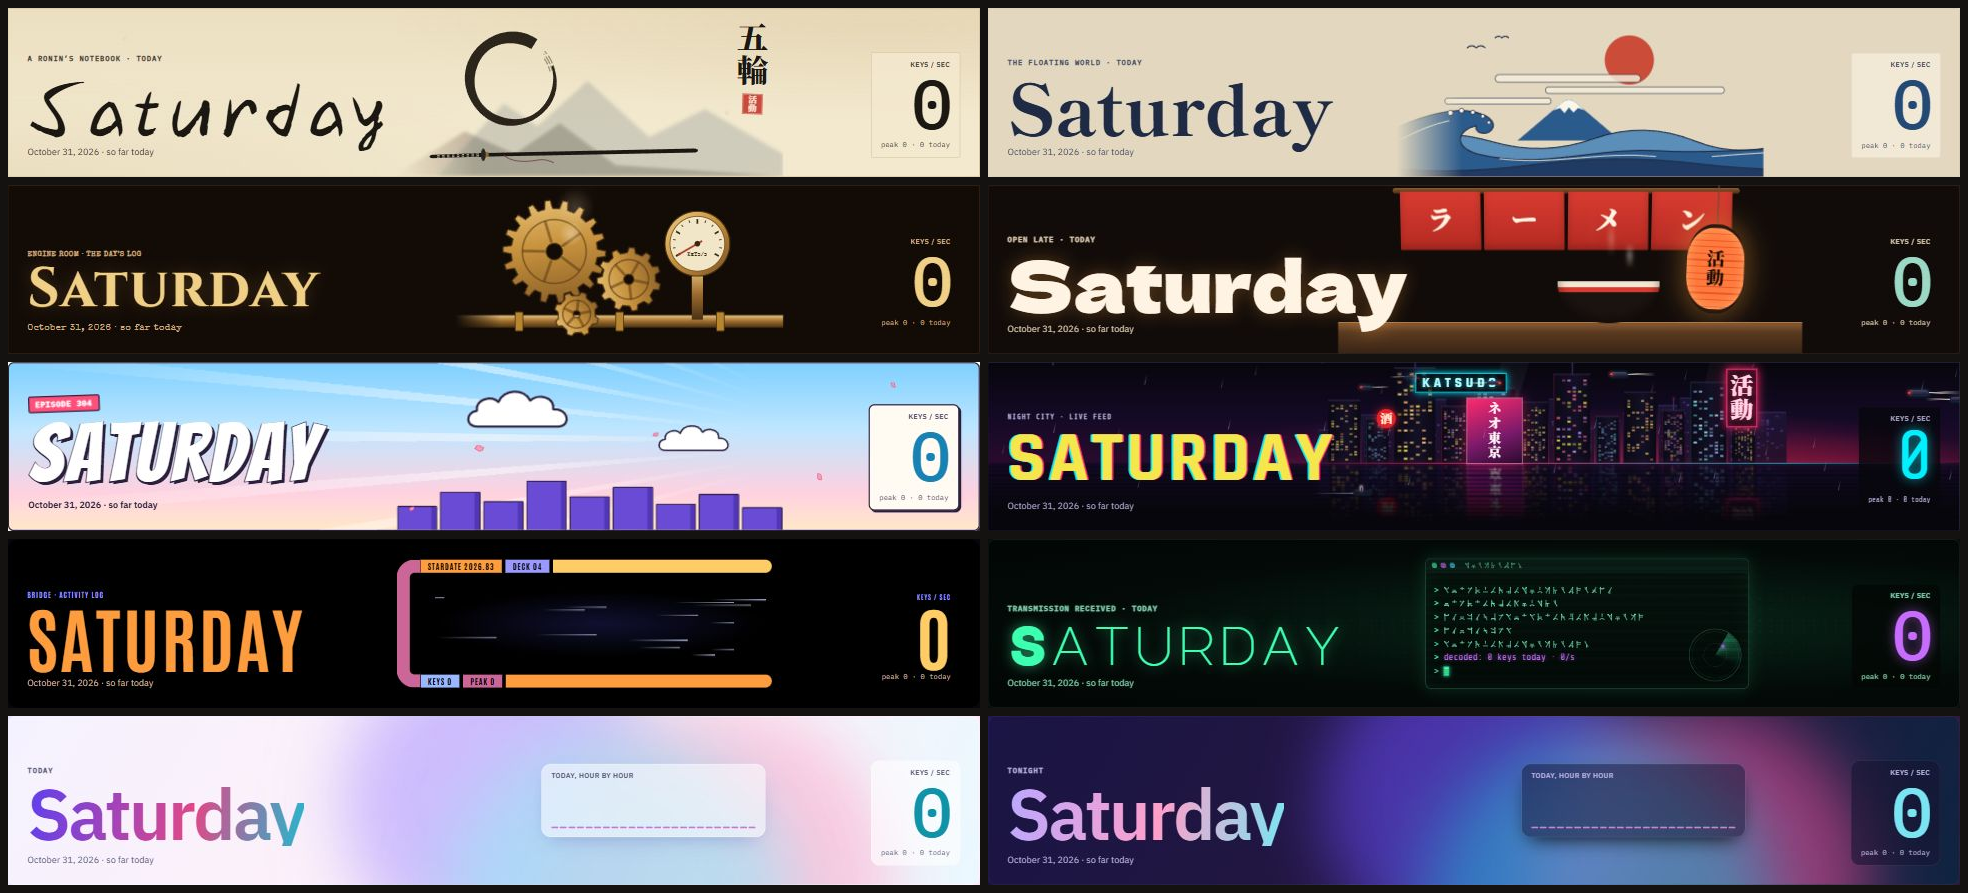
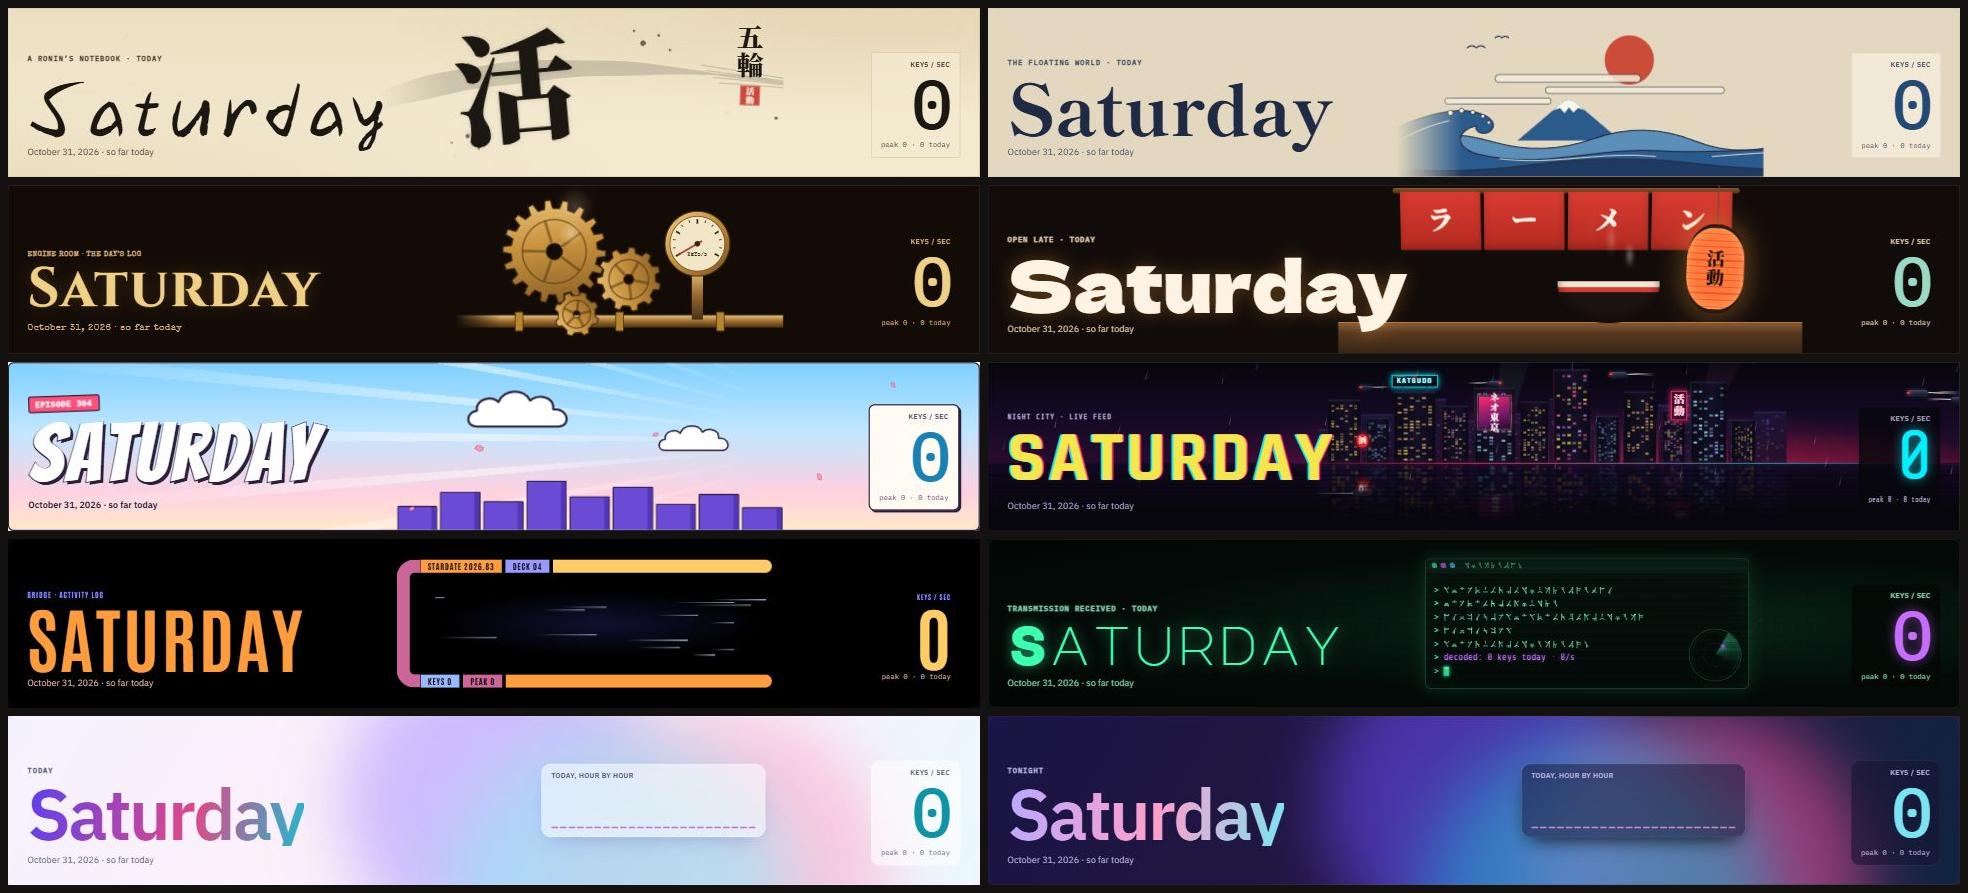
Cyberpunk signs on their buildings; Ronin as calligraphy, with a cut
- Cyberpunk: KATSUDO is a rooftop sign on struts, ネオ東京 a billboard framed
  in a facade, 活動 a blade sign bracketed to a tower's side, 酒 a lantern;
  each sized to its building, and all of them reflected in the bay.
- Ronin: the Today art is a calligraphy piece (a sumi brush sweep, a large
  brushed 活 with splatter, the 五輪 column and seal). The sword is gone:
  sweep the pointer quickly through the day's name and it is cut along that
  line, a blade flash and the halves sliding apart before they settle. It
  cuts itself once when Today opens; nothing moves with animations off.

diff --git a/src/themes/RoninArt.tsx b/src/themes/RoninArt.tsx
@@ -1,6 +1,8 @@
-// 1645 Ronin: the Musashi era as an old notebook. Sumi ink on tea-stained paper: a brushed
-// ensō that thins as the brush runs dry, ink-wash mountains, a sheathed sword lying below, and
-// a column of brush kanji signed with a red seal. Styles in ronin.css.
+// 1645 Ronin: the Musashi era as an old notebook, laid out as a calligraphy piece. A sumi brush
+// sweep in grey wash, a large brushed 活 with ink splatter, and a 五輪 column signed with a red
+// seal. The day's name can be cut: sweep the pointer through it and it splits along the line of
+// the cut, then settles back (it cuts itself once when Today opens). Styles in ronin.css.
+import { useCallback, useEffect, useRef, useState, type PointerEvent } from 'react';
 import { Hanko, NAME } from '../kanji';
 
 /**
@@ -9,7 +11,7 @@ import { Hanko, NAME } from '../kanji';
  */
 function ensoShape() {
   const N = 90;
-  const start = (-58 * Math.PI) / 180; // upper right, then counter-clockwise round
+  const start = (-58 * Math.PI) / 180;
   const sweep = (322 * Math.PI) / 180;
   const outer: string[] = [];
   const inner: string[] = [];
@@ -25,14 +27,6 @@ function ensoShape() {
 }
 const ENSO = ensoShape();
 
-/** Where the brush ran dry: a few broken hairlines past the end of the stroke. */
-const DRY = [0, 1, 2].map((k) => {
-  const r = 66 + k * 4;
-  const a0 = (-58 - 322 + 6) * (Math.PI / 180);
-  const a1 = (-58 - 322 - 14 - k * 6) * (Math.PI / 180);
-  return `M${(100 + r * Math.cos(a0)).toFixed(1)} ${(100 + r * Math.sin(a0)).toFixed(1)} A${r} ${r} 0 0 0 ${(100 + r * Math.cos(a1)).toFixed(1)} ${(100 + r * Math.sin(a1)).toFixed(1)}`;
-});
-
 export function Enso({ className }: { className?: string }) {
   return (
     <svg className={`rn-enso${className ? ` ${className}` : ''}`} viewBox="0 0 200 200" aria-hidden="true">
@@ -42,45 +36,136 @@ export function Enso({ className }: { className?: string }) {
           <feDisplacementMap in="SourceGraphic" in2="n" scale="1.6" xChannelSelector="R" yChannelSelector="G" />
         </filter>
       </defs>
-      <g filter="url(#rn-ink)">
-        <path className="rn-enso-ink" d={ENSO} />
-        {DRY.map((d, i) => <path key={i} className="rn-enso-dry" d={d} />)}
-      </g>
+      <path className="rn-enso-ink" d={ENSO} filter="url(#rn-ink)" />
     </svg>
   );
 }
 
-/** A sheathed katana lying flat: grip with its wrap, guard, lacquered scabbard, a loose cord. */
-function Sword() {
-  return (
-    <svg className="rn-sword" viewBox="0 0 640 60" aria-hidden="true">
-      <path className="rn-saya" d="M150 34 L612 24 Q 622 24 622 28.5 Q 622 33 612 33 L150 42 Z" />
-      <rect className="rn-habaki" x="146" y="32" width="8" height="11" rx="1" transform="rotate(-1.2 150 38)" />
-      <ellipse className="rn-tsuba" cx="142" cy="38" rx="4.5" ry="13" />
-      <path className="rn-tsuka" d="M138 34 L30 38 Q 22 38.6 22 42 Q 22 45.4 30 45.6 L138 42 Z" />
-      <path className="rn-ito" d="M132 36 L36 40 M132 40 L36 43.6" />
-      <path className="rn-sageo" d="M188 38 C 200 52 230 56 262 50 C 280 47 292 52 300 56" />
-    </svg>
-  );
+/** A brush sweep along a curve: thin in, swelling, thinning out, with dry streaks at the tail. */
+function sweepShape() {
+  const P = [[30, 210], [380, 40], [960, 150]];
+  const pt = (t: number) => {
+    const u = 1 - t;
+    return [u * u * P[0][0] + 2 * u * t * P[1][0] + t * t * P[2][0], u * u * P[0][1] + 2 * u * t * P[1][1] + t * t * P[2][1]];
+  };
+  const N = 80;
+  const top: string[] = [];
+  const bot: string[] = [];
+  for (let i = 0; i <= N; i++) {
+    const t = i / N;
+    const [x, y] = pt(t);
+    const [x2, y2] = pt(Math.min(1, t + 0.01));
+    const len = Math.hypot(x2 - x, y2 - y) || 1;
+    const [nx, ny] = [-(y2 - y) / len, (x2 - x) / len];
+    const w = 4 + 46 * Math.sin(Math.PI * Math.min(1, t * 1.25)) ** 0.7 * (1 - t * 0.55) + 2 * Math.sin(t * 31);
+    top.push(`${(x + nx * w / 2).toFixed(1)} ${(y + ny * w / 2).toFixed(1)}`);
+    bot.push(`${(x - nx * w / 2).toFixed(1)} ${(y - ny * w / 2).toFixed(1)}`);
+  }
+  const streaks = [-14, -5, 6, 15].map((o, k) => {
+    const [a, b] = [pt(0.78 + k * 0.01), pt(0.99)];
+    return `M${a[0].toFixed(1)} ${(a[1] + o).toFixed(1)} Q ${((a[0] + b[0]) / 2).toFixed(1)} ${((a[1] + b[1]) / 2 + o * 0.6 - 4).toFixed(1)} ${(b[0] + 20).toFixed(1)} ${(b[1] + o * 0.4).toFixed(1)}`;
+  });
+  return { body: `M${top.join(' L')} L${bot.reverse().join(' L')} Z`, streaks };
 }
+const SWEEP = sweepShape();
+const SPLATTER = [[612, 62, 5], [640, 48, 2.4], [596, 40, 1.6], [660, 74, 1.8], [298, 228, 3.6], [270, 240, 1.5], [318, 250, 2], [850, 196, 2.6], [878, 210, 1.4]];
 
 export function RoninArt() {
   return (
     <div className="rn">
-      <svg className="rn-scene" viewBox="0 0 1000 300" preserveAspectRatio="xMaxYMax slice" aria-hidden="true">
-        <defs><filter id="rn-wash"><feGaussianBlur stdDeviation="3" /></filter></defs>
-        <g filter="url(#rn-wash)">
-          <path className="rn-mtn is-far" d="M380 300 L500 170 L560 210 L650 130 L760 230 L860 180 L1000 260 V300 Z" />
-          <path className="rn-mtn is-near" d="M300 300 L430 220 L520 260 L600 205 L700 280 L1000 300 Z" />
+      <svg className="rn-scene" viewBox="0 0 1000 300" preserveAspectRatio="xMidYMid slice" aria-hidden="true">
+        <defs>
+          <filter id="rn-bleed" x="-5%" y="-10%" width="110%" height="120%">
+            <feTurbulence type="fractalNoise" baseFrequency="0.7" numOctaves="2" seed="11" result="n" />
+            <feDisplacementMap in="SourceGraphic" in2="n" scale="3" xChannelSelector="R" yChannelSelector="G" />
+          </filter>
+        </defs>
+        <g filter="url(#rn-bleed)">
+          <path className="rn-sweep" d={SWEEP.body} />
+          {SWEEP.streaks.map((d, i) => <path key={i} className="rn-streak" d={d} />)}
+          {SPLATTER.map(([x, y, r], i) => <circle key={i} className="rn-drop" cx={x} cy={y} r={r} />)}
         </g>
       </svg>
-      <Enso className="rn-hero-enso" />
-      <Sword />
+      <div className="rn-big">{NAME[0]}</div>
       <div className="rn-signature">
         <div className="rn-column"><span>五</span><span>輪</span></div>
         <Hanko className="rn-seal" />
       </div>
     </div>
+  );
+}
+
+// ---- The cut -----------------------------------------------------------------------------
+
+interface Cut { id: number; x: number; y: number; angle: number }
+
+/** Clip one side of the line through (x, y) at `angle` (radians), in px, far past the box. */
+function half(c: Cut, side: 1 | -1) {
+  const [dx, dy] = [Math.cos(c.angle), Math.sin(c.angle)];
+  const [nx, ny] = [-dy * side, dx * side];
+  const F = 4000;
+  const p = (x: number, y: number) => `${x.toFixed(0)}px ${y.toFixed(0)}px`;
+  return `polygon(${p(c.x - dx * F, c.y - dy * F)}, ${p(c.x + dx * F, c.y + dy * F)}, ${p(c.x + dx * F + nx * F, c.y + dy * F + ny * F)}, ${p(c.x - dx * F + nx * F, c.y - dy * F + ny * F)})`;
+}
+
+const calm = () => document.documentElement.classList.contains('no-motion') || window.matchMedia('(prefers-reduced-motion: reduce)').matches;
+
+/** The day's name, cut by a quick sweep of the pointer through it. */
+export function SlashTitle({ text }: { text: string }) {
+  const ref = useRef<HTMLHeadingElement>(null);
+  const entry = useRef<{ x: number; y: number; t: number } | null>(null);
+  const [cut, setCut] = useState<Cut | null>(null);
+  const [apart, setApart] = useState(false);
+
+  const slash = useCallback((x1: number, y1: number, x2: number, y2: number) => {
+    if (calm()) return;
+    setCut({ id: Date.now(), x: (x1 + x2) / 2, y: (y1 + y2) / 2, angle: Math.atan2(y2 - y1, x2 - x1) });
+    setApart(true);
+  }, []);
+
+  useEffect(() => {
+    if (!cut) return;
+    const settle = window.setTimeout(() => setApart(false), 650);
+    const heal = window.setTimeout(() => setCut(null), 1300);
+    return () => { window.clearTimeout(settle); window.clearTimeout(heal); };
+  }, [cut]);
+
+  // Once when Today opens, a cut from lower left to upper right.
+  useEffect(() => {
+    const t = window.setTimeout(() => {
+      const el = ref.current;
+      if (el) slash(0, el.offsetHeight * 0.78, el.offsetWidth, el.offsetHeight * 0.3);
+    }, 900);
+    return () => window.clearTimeout(t);
+  }, [slash]);
+
+  const local = (e: PointerEvent) => {
+    const r = ref.current!.getBoundingClientRect();
+    const z = r.width / ref.current!.offsetWidth || 1; // the interface scale (CSS zoom)
+    return { x: (e.clientX - r.left) / z, y: (e.clientY - r.top) / z };
+  };
+  const onEnter = (e: PointerEvent) => { entry.current = { ...local(e), t: performance.now() }; };
+  const onLeave = (e: PointerEvent) => {
+    const from = entry.current;
+    entry.current = null;
+    const el = ref.current;
+    if (!from || !el || cut) return;
+    const to = local(e);
+    // A cut is fast and goes most of the way through.
+    if (performance.now() - from.t < 450 && Math.hypot(to.x - from.x, to.y - from.y) > el.offsetWidth * 0.45) slash(from.x, from.y, to.x, to.y);
+  };
+
+  const [dx, dy] = cut ? [Math.cos(cut.angle), Math.sin(cut.angle)] : [0, 0];
+  const shift = (side: 1 | -1) => (apart ? `translate(${(dx * 16 - dy * 6) * side}px, ${(dy * 16 + dx * 6) * side}px)` : 'none');
+  return (
+    <h1 className={`hero-title rn-slash${cut ? ' is-cut' : ''}`} ref={ref} onPointerEnter={onEnter} onPointerLeave={onLeave}>
+      <span className="rn-half" style={cut ? { clipPath: half(cut, 1), transform: shift(1) } : undefined}>{text}</span>
+      {cut && <span className="rn-half is-b" aria-hidden="true" style={{ clipPath: half(cut, -1), transform: shift(-1) }}>{text}</span>}
+      {cut && (
+        <i key={cut.id} className="rn-trail" aria-hidden="true"
+          style={{ left: cut.x, top: cut.y, transform: `translate(-50%, -50%) rotate(${cut.angle}rad)` }} />
+      )}
+    </h1>
   );
 }
 

diff --git a/src/themes/cyber.css b/src/themes/cyber.css
@@ -28,19 +28,27 @@
 .cy-spire { position: absolute; left: 50%; bottom: 100%; width: 2px; height: 22px; background: #3a2d66; }
 .cy-spire b { position: absolute; left: -2px; top: -3px; width: 6px; height: 6px; border-radius: 50%; background: #ff3b3b; box-shadow: 0 0 8px #ff3b3b; animation: cy-blink 1.6s steps(1) infinite; }
 @keyframes cy-blink { 50% { opacity: .1; } }
-.cy-board { position: absolute; left: -18%; right: -18%; top: 12%; display: flex; flex-direction: column; align-items: center; padding: 6px 0; z-index: 1;
-  background: linear-gradient(160deg, #ff2a6d, #7a1a6a 60%, #2a0a2e); border: 1px solid #ff9ec0; box-shadow: 0 0 22px #ff2a6d88;
-  font: 400 clamp(13px, 1.3vw, 22px)/1.1 var(--font-kanji); color: #fff3f7; font-synthesis: none; animation: cy-glitch 7s steps(1) infinite; }
-@keyframes cy-glitch { 0%, 100% { transform: none; filter: none; } 62% { transform: translateX(3px); filter: hue-rotate(90deg); } 63% { transform: translateX(-2px); } 64% { transform: none; filter: none; } }
-
-/* Neon signs. */
-.cy-sign { position: absolute; right: calc(var(--cy-right) + 3%); top: 6%; z-index: 2; display: flex; flex-direction: column; padding: 7px 5px; border: 2px solid #ff2a6d;
-  font: 400 clamp(22px, 2.2vw, 38px)/1.05 var(--font-kanji); color: #ffd6e4; font-synthesis: none; background: #07060ccc;
-  box-shadow: 0 0 16px #ff2a6d, inset 0 0 12px #ff2a6d88; text-shadow: 0 0 10px #ff2a6d; animation: cy-flicker 6s steps(1) infinite; }
-.cy-sign-h { position: absolute; left: 44%; top: 10%; z-index: 2; padding: 2px 10px; font: 700 clamp(14px, 1.4vw, 22px)/1.2 "Rajdhani", sans-serif; letter-spacing: .3em; color: #b8fbff;
-  border: 1.5px solid #00f0ff; box-shadow: 0 0 12px #00f0ff; text-shadow: 0 0 8px #00f0ff; background: #07060c99; animation: cy-flicker 9s steps(1) infinite -3s; }
-.cy-sign-s { position: absolute; left: 40%; top: 46%; z-index: 2; width: 1.6em; height: 1.6em; display: grid; place-items: center; border-radius: 50%;
-  font: 400 clamp(13px, 1.2vw, 20px)/1 var(--font-kanji); color: #fff0d0; background: #e8202a; box-shadow: 0 0 14px #e8202a; font-synthesis: none; }
+/* Signs fixed to their buildings, sized to them. */
+.cy-board { position: absolute; left: 10%; right: 10%; top: 9%; height: 42%; z-index: 1; display: flex; flex-direction: column; align-items: center; justify-content: center;
+  background: linear-gradient(160deg, #ff2a6d, #7a1a6a 60%, #2a0a2e); border: 2px solid #2a2440; outline: 1px solid #ff9ec088; box-shadow: 0 0 14px #ff2a6d77;
+  font: 400 clamp(9px, .85vw, 15px)/1.12 var(--font-kanji); color: #fff3f7; font-synthesis: none; animation: cy-glitch 7s steps(1) infinite; }
+.cy-board::before, .cy-board::after { content: ""; position: absolute; top: -6px; width: 2px; height: 6px; background: #3a2d66; }
+.cy-board::before { left: 18%; } .cy-board::after { right: 18%; }
+@keyframes cy-glitch { 0%, 100% { transform: none; filter: none; } 62% { transform: translateX(2px); filter: hue-rotate(90deg); } 63% { transform: translateX(-1px); } 64% { transform: none; filter: none; } }
+.cy-roof { position: absolute; left: -6%; right: -6%; bottom: calc(100% + 9px); z-index: 2; display: grid; place-items: center; padding: 2px 0;
+  border: 1.5px solid #00f0ff; background: #07060ccc; box-shadow: 0 0 10px #00f0ff; animation: cy-flicker 9s steps(1) infinite -3s; }
+.cy-roof span { font: 700 clamp(8px, .72vw, 12px)/1.2 "Rajdhani", sans-serif; letter-spacing: .18em; color: #b8fbff; text-shadow: 0 0 6px #00f0ff; white-space: nowrap; }
+/* Two struts from the roof up to the sign. */
+.cy-roof::before, .cy-roof::after { content: ""; position: absolute; top: 100%; width: 2px; height: 9px; background: #3a2d66; }
+.cy-roof::before { left: 22%; } .cy-roof::after { right: 22%; }
+.cy-blade { position: absolute; right: calc(100% + 5px); top: 10%; z-index: 2; display: flex; flex-direction: column; padding: 4px 3px; border: 1.5px solid #ff2a6d;
+  background: #07060ccc; box-shadow: 0 0 10px #ff2a6d, inset 0 0 8px #ff2a6d66; font: 400 clamp(11px, 1.05vw, 18px)/1.06 var(--font-kanji); color: #ffd6e4;
+  text-shadow: 0 0 6px #ff2a6d; font-synthesis: none; animation: cy-flicker 6s steps(1) infinite; }
+/* Brackets bolting the blade sign to the wall. */
+.cy-blade::before, .cy-blade::after { content: ""; position: absolute; left: 100%; width: 6px; height: 2px; background: #5b4d8a; }
+.cy-blade::before { top: 14%; } .cy-blade::after { bottom: 14%; }
+.cy-lantern { position: absolute; right: calc(100% - 4px); top: 34%; z-index: 2; width: 1.5em; height: 1.7em; display: grid; place-items: center; border-radius: 45%;
+  font: 400 clamp(9px, .8vw, 13px)/1 var(--font-kanji); color: #fff0d0; background: #e8202a; box-shadow: 0 0 10px #e8202a; font-synthesis: none; }
 @keyframes cy-flicker { 0%, 100% { opacity: 1; } 41% { opacity: 1; } 42% { opacity: .3; } 43% { opacity: 1; } 44% { opacity: .5; } 46% { opacity: 1; } }
 
 /* The bay: the skyline again, upside down, blurred and rippling. */

diff --git a/src/themes/ronin.css b/src/themes/ronin.css
@@ -27,27 +27,28 @@
 .hero.hero-ronin { background: var(--rn-paper), linear-gradient(180deg, #ebdfc0, #f3e9cf 70%); border: 1px solid #c9b78e; }
 .hero-ronin .hero-live { background: #f3e9cfd9; border: 1px solid #c9b78e; }
 .hero-ronin .hero-live-value { color: #1b1712; }
-.rn { position: absolute; inset: 0 clamp(250px, 17vw, 400px) 0 40%; }
+.rn { position: absolute; inset: 0 clamp(250px, 17vw, 400px) 0 38%; }
 .rn-scene { position: absolute; inset: 0; width: 100%; height: 100%;
-  -webkit-mask-image: linear-gradient(90deg, transparent, #000 20%); mask-image: linear-gradient(90deg, transparent, #000 20%); }
-.rn-mtn.is-far { fill: #3e556630; }
-.rn-mtn.is-near { fill: #1b17123a; }
-.rn-enso { overflow: visible; }
-.rn-enso-ink { fill: #1b1712; opacity: .93; }
-.rn-enso-dry { fill: none; stroke: #1b1712; stroke-width: 1.4; stroke-linecap: round; stroke-dasharray: 9 3 14 4 6 5; opacity: .5; }
-.rn-hero-enso { position: absolute; left: 14%; top: 7%; height: 72%; width: auto; aspect-ratio: 1; }
-/* The sword lies below, clear of the ensō. */
-.rn-sword { position: absolute; left: 6%; right: 20%; bottom: 7%; width: auto; height: auto; max-height: 34%; }
-.rn-saya { fill: #1b1712; }
-.rn-habaki { fill: #8a6a3a; }
-.rn-tsuba { fill: #2a2620; stroke: #1b1712; stroke-width: 1; }
-.rn-tsuka { fill: #1b1712; }
-.rn-ito { fill: none; stroke: #efe4c8; stroke-width: 2; stroke-dasharray: 5 6; opacity: .8; }
-.rn-sageo { fill: none; stroke: #6a3a4a; stroke-width: 2.2; stroke-linecap: round; opacity: .8; }
+  -webkit-mask-image: linear-gradient(90deg, transparent, #000 18%); mask-image: linear-gradient(90deg, transparent, #000 18%); }
+.rn-sweep { fill: #1b1712; opacity: .15; }
+.rn-streak { fill: none; stroke: #1b1712; stroke-width: 2; stroke-linecap: round; opacity: .16; }
+.rn-drop { fill: #1b1712; opacity: .6; }
+/* The piece itself: one large character, brushed. */
+.rn-big { position: absolute; left: 34%; top: 50%; transform: translate(-50%, -52%) rotate(-5deg); font: 400 clamp(110px, 10.5vw, 200px)/1 var(--font-kanji);
+  color: #1b1712; font-synthesis: none; text-shadow: 0 0 1px #1b1712, 0 0 8px #1b171226; }
 /* A calligrapher's signature: the column, the seal under it. */
-.rn-signature { position: absolute; right: 4%; top: 8%; display: flex; flex-direction: column; align-items: center; gap: 10px; }
-.rn-column { display: flex; flex-direction: column; font: 400 clamp(30px, 3vw, 52px)/1.05 var(--font-kanji); color: #1b1712; font-synthesis: none; }
+.rn-signature { position: absolute; right: 5%; top: 9%; display: flex; flex-direction: column; align-items: center; gap: 10px; }
+.rn-column { display: flex; flex-direction: column; font: 400 clamp(26px, 2.5vw, 44px)/1.05 var(--font-kanji); color: #1b1712; font-synthesis: none; }
 .rn-seal { width: 26px; height: 26px; font-size: 10.5px; opacity: .9; border-radius: 1px; transform: rotate(2deg); }
+
+/* The day's name, cut: two copies clipped either side of the line, sliding apart along it. */
+.rn-slash { position: relative; z-index: 1; cursor: crosshair; }
+.rn-half { display: inline-block; transition: transform .45s cubic-bezier(.2, .8, .2, 1); }
+.rn-half.is-b { position: absolute; left: 0; top: 0; }
+.rn-trail { position: absolute; width: 130%; height: 3px; pointer-events: none; border-radius: 2px;
+  background: linear-gradient(90deg, transparent, #fffef6 25%, #ffffff 60%, transparent); box-shadow: 0 0 10px #ffffff, 0 0 1px 1px #1b171255;
+  animation: rn-trail .55s ease-out forwards; }
+@keyframes rn-trail { 0% { clip-path: inset(0 100% 0 0); opacity: 1; } 35% { clip-path: inset(0 0 0 0); opacity: 1; } 100% { clip-path: inset(0 0 0 0); opacity: 0; } }
 [data-theme="ronin"] .hanko { border-radius: 1px; transform: rotate(2deg); box-shadow: inset 0 0 0 2px #f6eedb55; }
 
 .welcome.welcome-ronin { background: var(--rn-paper), #efe4c8; }

diff --git a/src/themes/CyberArt.tsx b/src/themes/CyberArt.tsx
@@ -12,10 +12,11 @@ function rng(seed: number) {
 }
 
 const FAR = Array.from({ length: 18 }, (_, i) => ({ w: 3 + ((i * 37) % 5), h: 40 + ((i * 53) % 44) }));
-const TOWERS = [
-  { w: 7, h: 62, tone: 'warm' }, { w: 5, h: 44, tone: 'cyan' }, { w: 9, h: 94, tone: 'warm', spire: true }, { w: 6, h: 56, tone: 'pink' },
-  { w: 9, h: 74, tone: 'cyan', board: true }, { w: 6, h: 60, tone: 'warm' }, { w: 8, h: 88, tone: 'pink', spire: true }, { w: 5, h: 46, tone: 'cyan' },
-  { w: 7, h: 70, tone: 'warm' }, { w: 5, h: 52, tone: 'pink', spire: true }, { w: 8, h: 80, tone: 'cyan' }, { w: 5, h: 42, tone: 'warm' },
+/** sign: a rooftop sign on struts, a billboard in the facade, a blade sign on the side, a lantern. */
+const TOWERS: { w: number; h: number; tone: string; spire?: boolean; sign?: 'roof' | 'board' | 'blade' | 'lantern' }[] = [
+  { w: 7, h: 62, tone: 'warm' }, { w: 5, h: 44, tone: 'cyan', sign: 'lantern' }, { w: 9, h: 70, tone: 'warm', sign: 'roof' }, { w: 6, h: 56, tone: 'pink' },
+  { w: 9, h: 74, tone: 'cyan', sign: 'board' }, { w: 6, h: 60, tone: 'warm' }, { w: 8, h: 92, tone: 'pink', spire: true }, { w: 5, h: 46, tone: 'cyan' },
+  { w: 7, h: 70, tone: 'warm' }, { w: 5, h: 52, tone: 'pink', spire: true }, { w: 8, h: 80, tone: 'cyan', sign: 'blade' }, { w: 5, h: 42, tone: 'warm' },
 ];
 const LIT: Record<string, string[]> = {
   warm: ['#f5e64b', '#ffd27a', '#ffb066'], cyan: ['#6ff8ff', '#9ab8ff', '#b8fbff'], pink: ['#ff5f90', '#f5e64b', '#d99bff'], dim: ['#5b4d8a', '#7a5cff', '#3a2d66'],
@@ -52,13 +53,13 @@ function City() {
           <div key={i} className={`cy-tower is-${t.tone}`} style={{ width: `${t.w}%`, height: `${t.h}%` }}>
             {t.spire && <span className="cy-spire"><b style={{ animationDelay: `${-i * 0.7}s` }} /></span>}
             <Windows seed={i + 1} tone={t.tone} />
-            {t.board && <div className="cy-board"><span>ネ</span><span>オ</span><span>東</span><span>京</span></div>}
+            {t.sign === 'board' && <div className="cy-board"><span>ネ</span><span>オ</span><span>東</span><span>京</span></div>}
+            {t.sign === 'roof' && <div className="cy-roof"><span>KATSUDO</span></div>}
+            {t.sign === 'blade' && <div className="cy-blade"><span>{NAME[0]}</span><span>{NAME[1]}</span></div>}
+            {t.sign === 'lantern' && <div className="cy-lantern">酒</div>}
           </div>
         ))}
       </div>
-      <div className="cy-sign"><span>{NAME[0]}</span><span>{NAME[1]}</span></div>
-      <div className="cy-sign-h">KATSUDO</div>
-      <div className="cy-sign-s">酒</div>
     </>
   );
 }

diff --git a/src/themes/Hero.tsx b/src/themes/Hero.tsx
@@ -4,7 +4,7 @@ import { formatCount } from '../lib';
 import { RamenArt, SteamArt, UkiyoeArt } from './EarlyArt';
 import { AnimeArt, episode, SignalArt, StarshipArt, VaporArt } from './FutureArt';
 import { CyberArt } from './CyberArt';
-import { RoninArt } from './RoninArt';
+import { RoninArt, SlashTitle } from './RoninArt';
 
 interface HeroProps {
   theme: ThemeId;
@@ -57,7 +57,7 @@ export function Hero(p: HeroProps) {
       </div>
       <div className="hero-text">
         <div className="hero-eyebrow">{p.theme === 'anime' ? `Episode ${episode()}` : EYEBROW[p.theme]}</div>
-        <h1 className="hero-title">{p.weekday}</h1>
+        {p.theme === 'ronin' ? <SlashTitle text={p.weekday} /> : <h1 className="hero-title">{p.weekday}</h1>}
         <p className="hero-sub">{p.date} · so far today</p>
       </div>
       <div className="hero-live" aria-live="off">
